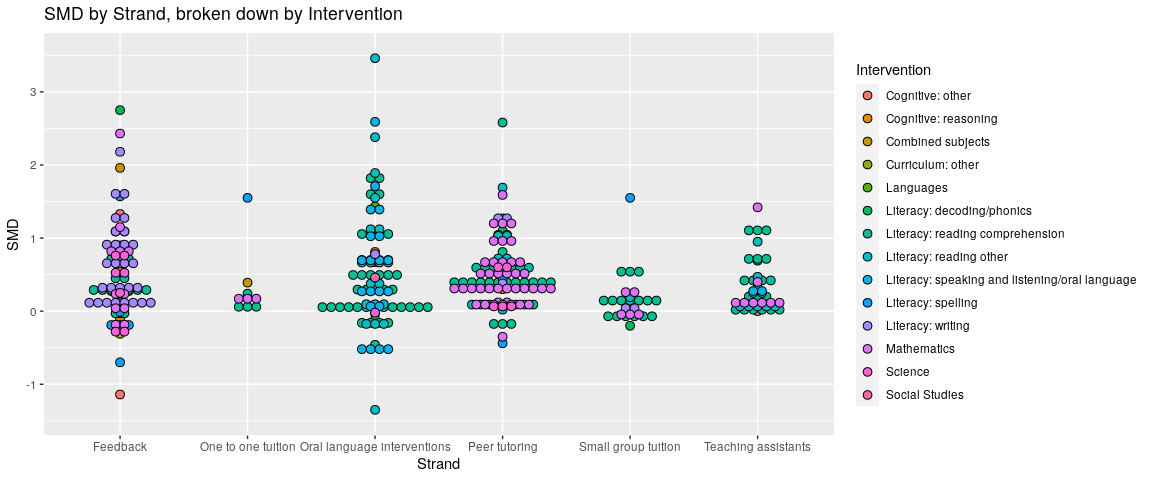
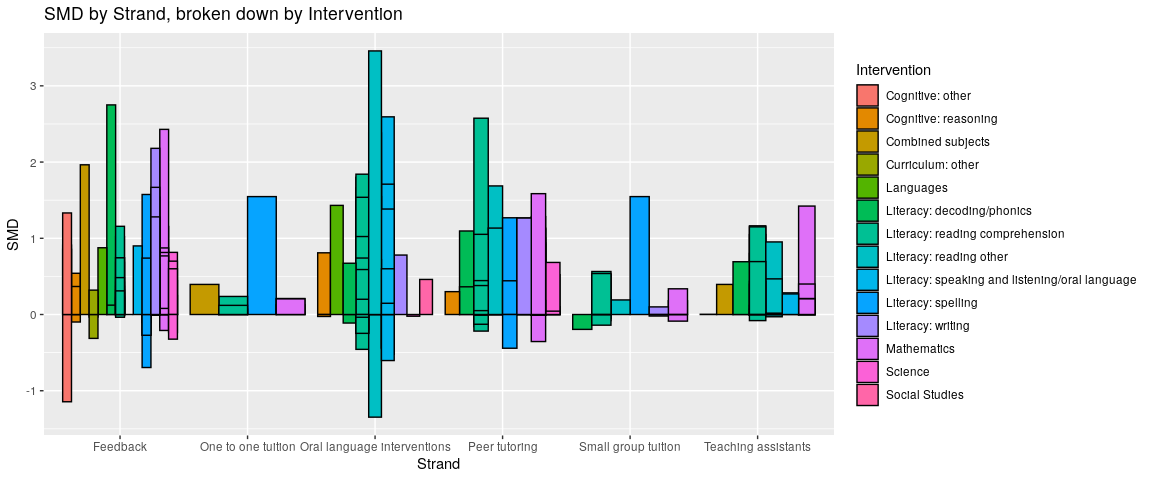
forest plot test

Changed region(s): [[0.0312, 0.0938, 0.7812, 0.875], [0.0938, 0.8125, 0.125, 0.8438]]

diff --git a/StrandSpecificEffectSizeExtraction.md b/StrandSpecificEffectSizeExtraction.md
@@ -109,10 +109,13 @@ def get_data(strand_key, strand_value, outcome_choice):
                         outcome_text=(data["References"][section]["Outcomes"][0]["OutcomeText"])
                         SMD=(data["References"][section]["Outcomes"][0]["SMD"])
                         SESMD=(data["References"][section]["Outcomes"][0]["SESMD"])
+                        CIupperSMD=(data["References"][section]["Outcomes"][0]["CIUpperSMD"])
+                        CIlowerSMD=(data["References"][section]["Outcomes"][0]["CILowerSMD"])
                         year=(data["References"][section]["Year"])
                         intervention=(data["References"][section]["Outcomes"][0]["InterventionText"])
                         outcome_studies.append([strand_key, strand_value, outcome_id, outcome_text, 
-                                                outcome_type, year, intervention, SMD, SESMD])
+                                                outcome_type, year, intervention, SMD, SESMD, CIupperSMD,
+                                                CIlowerSMD])
               
     # display number of studies found within selected strand
     print('Number of studies within strand {}: {}'.format(strand_value, len(outcome_studies)), "\n")
@@ -122,11 +125,14 @@ def get_data(strand_key, strand_value, outcome_choice):
     
     # convert data list to pandas dataframe for viewing
     df_primary = pd.DataFrame(outcome_studies, columns=['AttributeId', 'Strand', 'OutcomeId', 'OutcomeType', 
-                                                        'ShortTitle', 'Year', 'Intervention', 'SMD', 'SESMD'])
+                                                        'ShortTitle', 'Year', 'Intervention', 'SMD', 'SESMD',
+                                                        'CIupper', 'CIlower'])
     
     # round effect sizes to two decimal points
-    df_primary.loc[:, "SMD"] = df_primary["SMD"].astype(float).round(2)
-    df_primary.loc[:, "SESMD"] = df_primary["SESMD"].astype(float).round(2)
+    df_primary.loc[:, "SMD"] = df_primary["SMD"].astype(float).round(4)
+    df_primary.loc[:, "SESMD"] = df_primary["SESMD"].astype(float).round(4)
+    df_primary.loc[:, "CIupper"] = df_primary["CIupper"].astype(float).round(4)
+    df_primary.loc[:, "CIlower"] = df_primary["CIlower"].astype(float).round(4)
     
     return df_primary
 
@@ -174,7 +180,7 @@ feedback_mean_SMD
 ```
 
 ```
-## [1] 0.5135955
+## [1] 0.5133944
 ```
 
 ```r
@@ -182,12 +188,41 @@ feedback_mean_SESMD
 ```
 
 ```
-## [1] 0.2914607
+## [1] 0.2915416
 ```
 
 ```r
 View(feedback_df)
+
+library(ggplot2)
+p <- ggplot(feedback_df, aes(y=ShortTitle, x=SMD, xmin=CIlower, xmax=CIupper))+
+  geom_point(color='black') +
+  geom_errorbarh(height=.1) +
+  scale_x_continuous(limits=c(-2,2), name='Standardized Mean Difference') +
+  ylab('Reference') +
+  geom_vline(xintercept=0, color='black', linetype='dashed')
 ```
+
+```r
+ggplot(feedback_df, aes(y=ShortTitle, x=SMD, xmin=CIlower, xmax=CIupper))+
+  geom_point(color='black') +
+  geom_errorbarh(height=.1) +
+  scale_x_continuous(limits=c(-2,2), name='Standardized Mean Difference') +
+  ylab('Reference') +
+  geom_vline(xintercept=0, color='black', linetype='dashed')
+```
+
+```
+## Warning: Removed 3 rows containing missing values (geom_point).
+```
+
+```
+## Warning: Removed 9 rows containing missing values (geom_errorbarh).
+```
+
+![](StrandSpecificEffectSizeExtraction_figs/unnamed-chunk-4-1.png)<!-- -->
+
+
 
 ```r
 ggplot(data=subset(feedback_df, !is.na(Intervention)), aes(SMD, SESMD, color=Intervention)) + 
@@ -204,7 +239,7 @@ ggplot(data=subset(feedback_df, !is.na(Intervention)), aes(SMD, SESMD, color=Int
     ggtitle("SMD by SESMD broken down by Intervention, Feedback strand only")
 ```
 
-![](StrandSpecificEffectSizeExtraction_figs/unnamed-chunk-4-1.png)<!-- -->
+![](StrandSpecificEffectSizeExtraction_figs/unnamed-chunk-5-1.png)<!-- -->
 
 
 ```python
@@ -233,17 +268,29 @@ print(oral_lang.head(10))
 ## 8      5023563  Oral language interventions      50557  Primary outcome   
 ## 9      5023563  Oral language interventions      49410  Primary outcome   
 ## 
-##         ShortTitle  Year                     Intervention   SMD  SESMD  
-## 0     Ammon (1971)  1971          Literacy: reading other  0.00   0.29  
-## 1    Anders (1984)  1984  Literacy: reading comprehension  1.66   0.30  
-## 2   Aram (2004) OL  2004          Literacy: reading other  0.36   0.27  
-## 3      Aram (2006)  2006  Literacy: reading comprehension  0.04   0.23  
-## 4     Banks (1987)  1987          Literacy: reading other -0.18   0.23  
-## 5   Baumann (2002)  2002  Literacy: reading comprehension -0.07   0.31  
-## 6      Beck (2007)  2007          Literacy: reading other  1.15   0.32  
-## 7  Bereiter (1985)  1985  Literacy: reading comprehension  0.53   0.37  
-## 8     Block (2006)  2006  Literacy: reading comprehension  0.30   0.08  
-## 9     Bonds (1987)  1987  Literacy: reading comprehension  0.98   0.23
+##         ShortTitle  Year                     Intervention     SMD   SESMD  \
+## 0     Ammon (1971)  1971          Literacy: reading other  0.0000  0.2949   
+## 1    Anders (1984)  1984  Literacy: reading comprehension  1.6616  0.2971   
+## 2   Aram (2004) OL  2004          Literacy: reading other  0.3624  0.2673   
+## 3      Aram (2006)  2006  Literacy: reading comprehension  0.0396  0.2310   
+## 4     Banks (1987)  1987          Literacy: reading other -0.1756  0.2289   
+## 5   Baumann (2002)  2002  Literacy: reading comprehension -0.0699  0.3087   
+## 6      Beck (2007)  2007          Literacy: reading other  1.1537  0.3206   
+## 7  Bereiter (1985)  1985  Literacy: reading comprehension  0.5271  0.3665   
+## 8     Block (2006)  2006  Literacy: reading comprehension  0.3000  0.0800   
+## 9     Bonds (1987)  1987  Literacy: reading comprehension  0.9764  0.2275   
+## 
+##    CIupper  CIlower  
+## 0   0.5780  -0.5780  
+## 1   2.2439   1.0792  
+## 2   0.8862  -0.1614  
+## 3   0.4923  -0.4131  
+## 4   0.2729  -0.6242  
+## 5   0.5352  -0.6749  
+## 6   1.7821   0.5253  
+## 7   1.2454  -0.1912  
+## 8   0.4568   0.1432  
+## 9   1.4223   0.5304
 ```
 
 
@@ -261,7 +308,7 @@ oral_lang_mean_SMD
 ```
 
 ```
-## [1] 0.567191
+## [1] 0.5674135
 ```
 
 ```r
@@ -269,7 +316,7 @@ oral_lang_mean_SESMD
 ```
 
 ```
-## [1] 0.2639773
+## [1] 0.2637682
 ```
 
 ```r
@@ -292,7 +339,7 @@ ggplot(data=subset(oral_lang_df, !is.na(Intervention)), aes(SMD, SESMD, color=In
     ggtitle("SMD by SESMD broken down by Intervention, Oral Language strand only")
 ```
 
-![](StrandSpecificEffectSizeExtraction_figs/unnamed-chunk-7-1.png)<!-- -->
+![](StrandSpecificEffectSizeExtraction_figs/unnamed-chunk-8-1.png)<!-- -->
 
 
 ```python
@@ -368,20 +415,33 @@ master_df
 ## 7       5023562           One to one tuition      47554  Primary outcome   
 ## 8       5023562           One to one tuition      46242  Primary outcome   
 ## 
-##         ShortTitle  Year                     Intervention   SMD  SESMD  
-## 0     Ammon (1971)  1971          Literacy: reading other  0.00   0.29  
-## 1    Anders (1984)  1984  Literacy: reading comprehension  1.66   0.30  
-## 2   Aram (2004) OL  2004          Literacy: reading other  0.36   0.27  
-## 3      Aram (2006)  2006  Literacy: reading comprehension  0.04   0.23  
-## 4     Banks (1987)  1987          Literacy: reading other -0.18   0.23  
-## ..             ...   ...                              ...   ...    ...  
-## 4     Patel (2017)  2017  Literacy: reading comprehension  0.00   0.07  
-## 5       Roy (2019)  2019  Literacy: reading comprehension  0.07   0.06  
-## 6      Rutt (2014)  2014                      Mathematics  0.21   0.11  
-## 7      Rutt (2015)  2015  Literacy: reading comprehension  0.12   0.07  
-## 8       See (2018)  2018                      Mathematics  0.20   0.12  
+##         ShortTitle  Year                     Intervention     SMD   SESMD  \
+## 0     Ammon (1971)  1971          Literacy: reading other  0.0000  0.2949   
+## 1    Anders (1984)  1984  Literacy: reading comprehension  1.6616  0.2971   
+## 2   Aram (2004) OL  2004          Literacy: reading other  0.3624  0.2673   
+## 3      Aram (2006)  2006  Literacy: reading comprehension  0.0396  0.2310   
+## 4     Banks (1987)  1987          Literacy: reading other -0.1756  0.2289   
+## ..             ...   ...                              ...     ...     ...   
+## 4     Patel (2017)  2017  Literacy: reading comprehension  0.0010  0.0663   
+## 5       Roy (2019)  2019  Literacy: reading comprehension  0.0709  0.0625   
+## 6      Rutt (2014)  2014                      Mathematics  0.2100  0.1097   
+## 7      Rutt (2015)  2015  Literacy: reading comprehension  0.1200  0.0689   
+## 8       See (2018)  2018                      Mathematics  0.2050  0.1176   
 ## 
-## [349 rows x 9 columns]
+##     CIupper  CIlower  
+## 0    0.5780  -0.5780  
+## 1    2.2439   1.0792  
+## 2    0.8862  -0.1614  
+## 3    0.4923  -0.4131  
+## 4    0.2729  -0.6242  
+## ..      ...      ...  
+## 4    0.1310  -0.1290  
+## 5    0.1934  -0.0516  
+## 6    0.4250  -0.0050  
+## 7    0.2550  -0.0150  
+## 8    0.4354  -0.0254  
+## 
+## [349 rows x 11 columns]
 ```
 
 
@@ -403,7 +463,7 @@ filter(master_df, !is.na(Intervention)) %>%
   ggtitle("SMD by Strand, broken down by Intervention")
 ```
 
-![](StrandSpecificEffectSizeExtraction_figs/unnamed-chunk-9-1.png)<!-- -->
+![](StrandSpecificEffectSizeExtraction_figs/unnamed-chunk-10-1.png)<!-- -->
 
 
 ```r
@@ -413,7 +473,7 @@ filter(master_df, !is.na(Intervention)) %>%
   ggtitle("SMD by Strand, broken down by Intervention")
 ```
 
-![](StrandSpecificEffectSizeExtraction_figs/unnamed-chunk-10-1.png)<!-- -->
+![](StrandSpecificEffectSizeExtraction_figs/unnamed-chunk-11-1.png)<!-- -->
 
 
 ```r
@@ -426,7 +486,7 @@ filter(master_df, !is.na(Intervention)) %>%
 ## Warning: Duplicated aesthetics after name standardisation: shape
 ```
 
-![](StrandSpecificEffectSizeExtraction_figs/unnamed-chunk-11-1.png)<!-- -->
+![](StrandSpecificEffectSizeExtraction_figs/unnamed-chunk-12-1.png)<!-- -->
 
 
 ```r
@@ -436,5 +496,5 @@ filter(master_df, !is.na(Intervention)) %>%
   ggtitle("SMD by Strand, broken down by Intervention")
 ```
 
-![](StrandSpecificEffectSizeExtraction_figs/unnamed-chunk-12-1.png)<!-- -->
+![](StrandSpecificEffectSizeExtraction_figs/unnamed-chunk-13-1.png)<!-- -->
 
